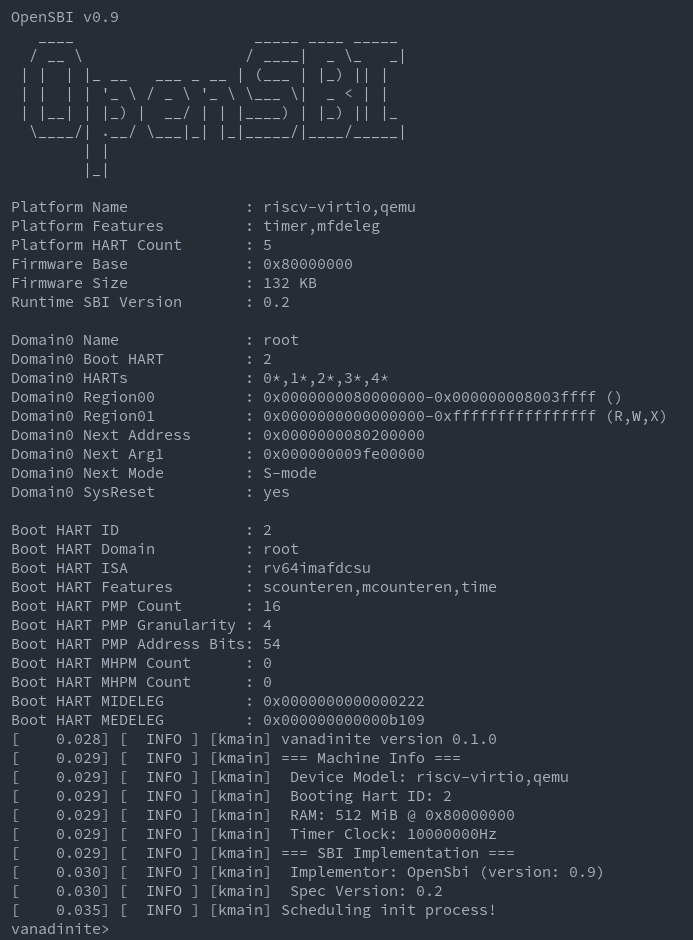
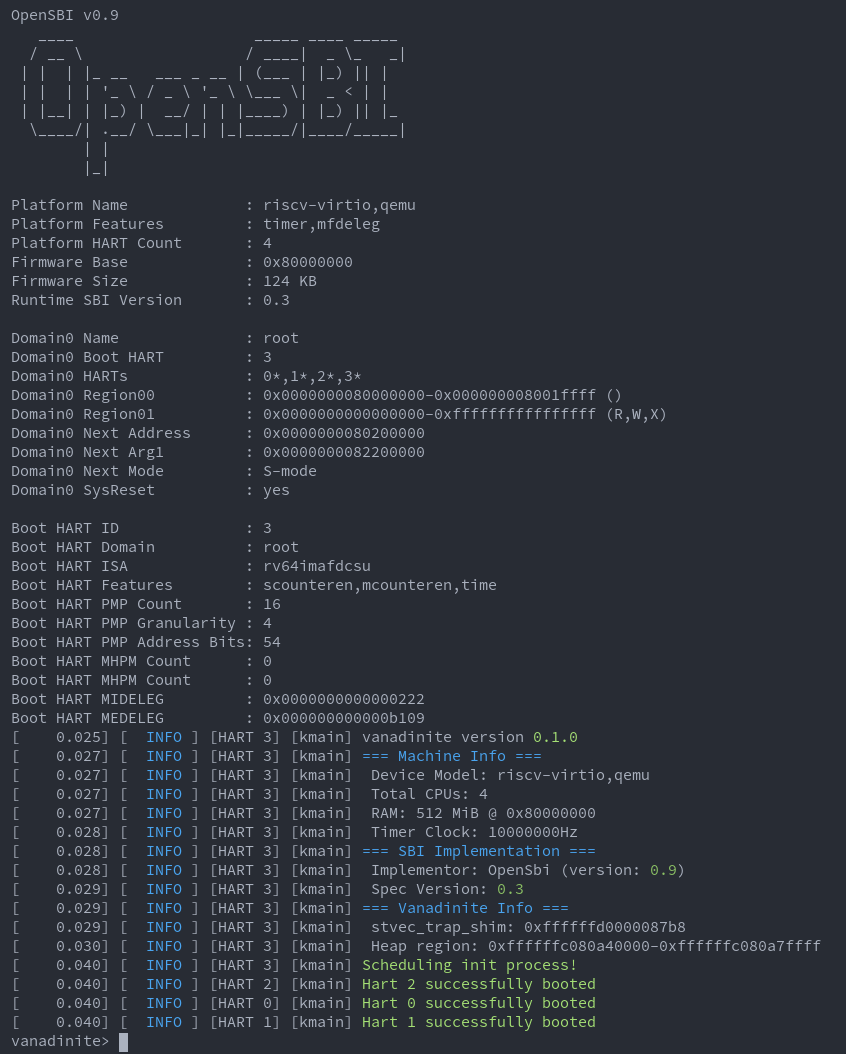
fix(README.md): Correct some changes, update screenshot

diff --git a/README.md b/README.md
@@ -9,17 +9,17 @@ The source code in this project is licensed under the Mozilla Public License 2.0
 ## Building
 ### Vanadinite and Userspace
 The Rust `riscv64gc-unknown-none-elf` toolchain must be installed, then run
-`cargo xtask vanadinite` to build the kernel ELF, or `cargo xtask userspace` to
-build the userspace executables and package them in a tar file in the root
-directory. **Note:** building the kernel will automatically build and package
-the userspace binaries.
+`cargo xtask build vanadinite` to build the kernel ELF, or `cargo xtask build
+userspace` to build the userspace executables and package them in a tar file in
+the root directory. **Note:** building the kernel will automatically build and
+package the userspace binaries.
 
 ### OpenSBI
 Building the OpenSBI firmware image requires you to have the
 `riscv64-unknown-elf-` binutils package installed. For Arch users, you can
 install the following packages: `riscv64-unknown-elf-gdb`,
 `riscv64-unknown-elf-binutils`, `riscv64-unknown-elf-newlib`. If the tools are
-installed, run `cargo xtask opensbi` to build the SBI firmare image and place it
+installed, run `cargo xtask build opensbi` to build the SBI firmare image and place it
 in the root directory for use by QEMU.
 
 ## Running
@@ -27,21 +27,22 @@ in the root directory for use by QEMU.
 You will need to have the `qemu-system-riscv64` QEMU executable installed and in
 your path.
 
-### Running QEMU
-To run QEMU with the kernel, the OpenSBI image must be built, as well as the
-kernel ELF which will be built before executing QEMU.
-
-To run, execute `cargo xtask run`. By default this will run `vanadinite` on the
+### Running
+To run, execute `cargo xtask run`. By default, this will run `vanadinite` on the
 QEMU `virt` machine, if you would like to run for a different platform (e.g.
 `sifive_u`) or change the machine properties, see `cargo xtask run --help` for a
-full list of available options.
+full list of available options. If QEMU is not installed, the `spike` simulator
+can be built and used as an alternative, however it does not support all the
+same functionality as running with QMEU. You will also want to pass in
+`console=sbi` as a kernel arg to get output.
 
 Default settings are:
 
             Platform: virt
-              # CPUs: 5
+              # CPUs: 4
                  RAM: 512M
     Kernel Arguments: ""
+           Simulator: QEMU
 
 To exit QEMU press: `Ctrl+A` + `x`
 
